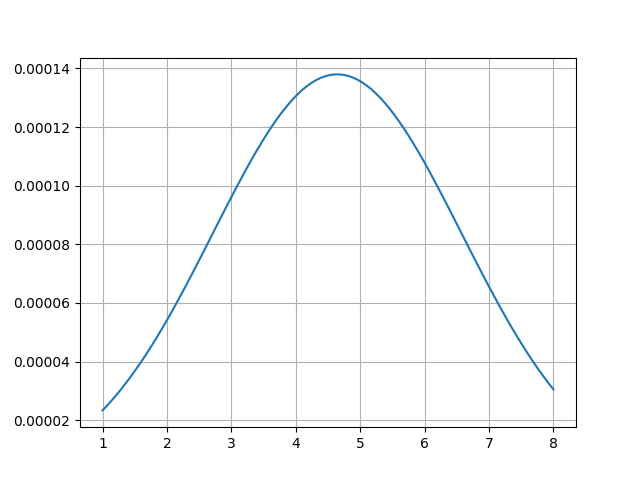
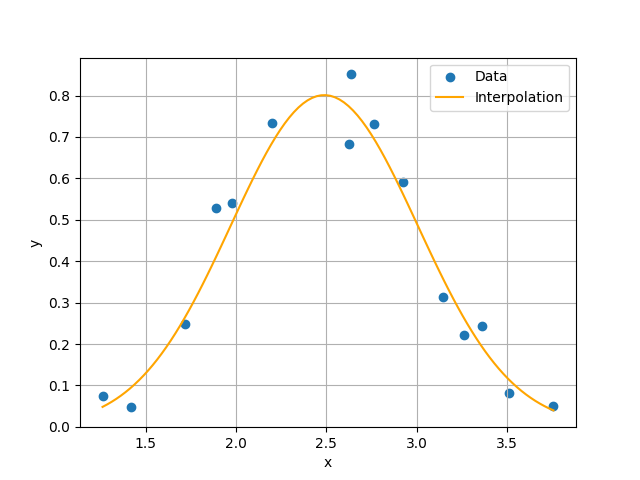
correct version of plot

diff --git a/ex4_1.py b/ex4_1.py
@@ -4,36 +4,43 @@ import matplotlib.pyplot as plt
 x = np.load("./x.npy")
 y = np.load("./y.npy")
 
-print(x.shape)
+#print(x.shape)
 
 # formulate LS problem
 
 y_hat = np.log(y)
 A = np.zeros([x.shape[0],3])
-print(A.shape)
+#print(A.shape)
 
 # fill A with the values of the powers of x
 for i in range(len(x)):
-    A[i][0] = x[i]**2
-    A[i][1] = x[i]
+    A[i][0] = x[i][0]**2
+    A[i][1] = x[i][0]
     A[i][2] = 1
 
 # c = pseudoinverse of A times x
 c = np.linalg.inv(A.T @ A) @ A.T @ y_hat
 c_numpy = np.linalg.pinv(A) @ y_hat
 
+#print(c)
 
 # revert to gaussian pulse
-mu = c[1]/2
-sigma_squared = -2*c[0]
+mu = -0.5*c[1]/c[0]
+#print("mu: " + str(mu))
+sigma_squared = -1/(2*c[0])
+#print("sigma^2: " + str(sigma_squared))
 beta = np.exp(c[2]+(mu**2/(2*sigma_squared)))
 
 # plot the results
-x = np.linspace(1,8,100)
-y = beta * np.exp(-1/(2*sigma_squared) * (x-mu)**2)
+x_hat = np.linspace(np.min(x),np.max(x),100)
+y_of_x = beta * np.exp(-1/(2*sigma_squared) * (x_hat-mu)**2)
 
 fig = plt.figure()
-plt.plot(x,y)
+plt.xlabel("x")
+plt.ylabel("y")
+plt.scatter(x,y, label='Data')
+plt.plot(x_hat,y_of_x, label='Interpolation',c='orange')
 plt.grid()
+plt.legend()
 plt.savefig("./ex4_1_1.png")
 plt.show()

diff --git a/README.md b/README.md
@@ -1,2 +1,2 @@
 # SP1
-My SP1 python files
+My SP1 python files of exercise 4
